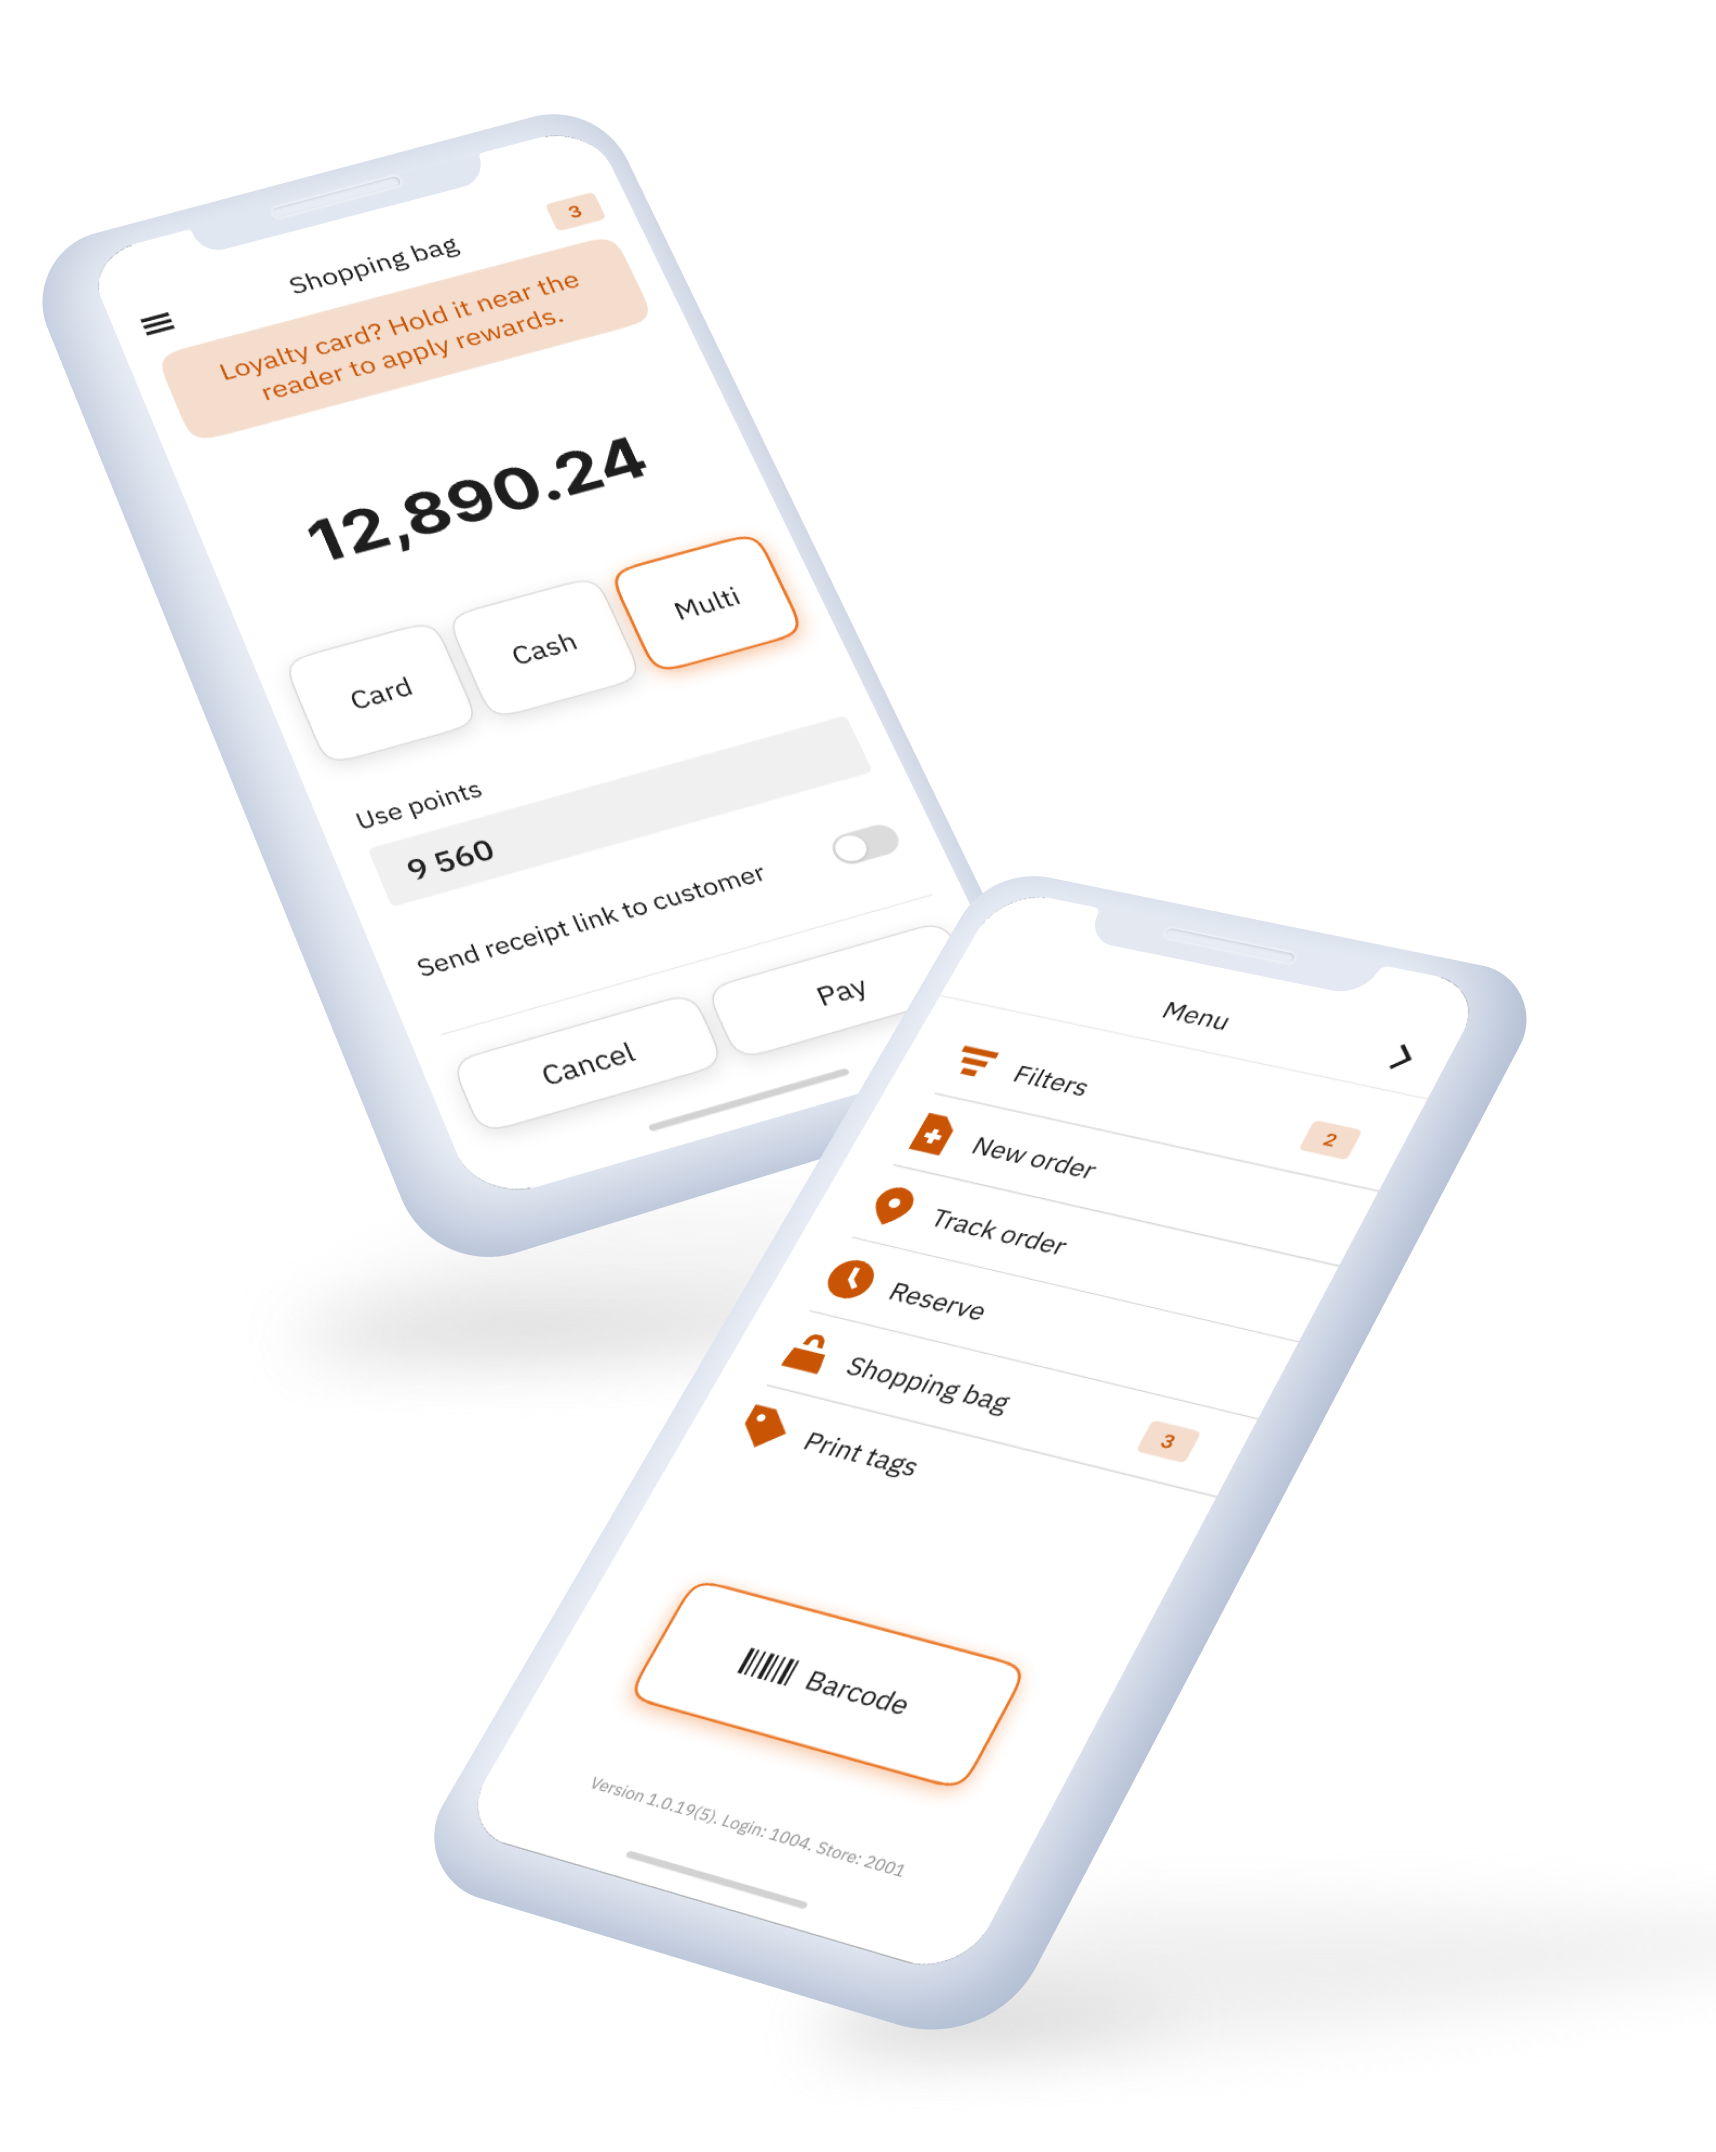
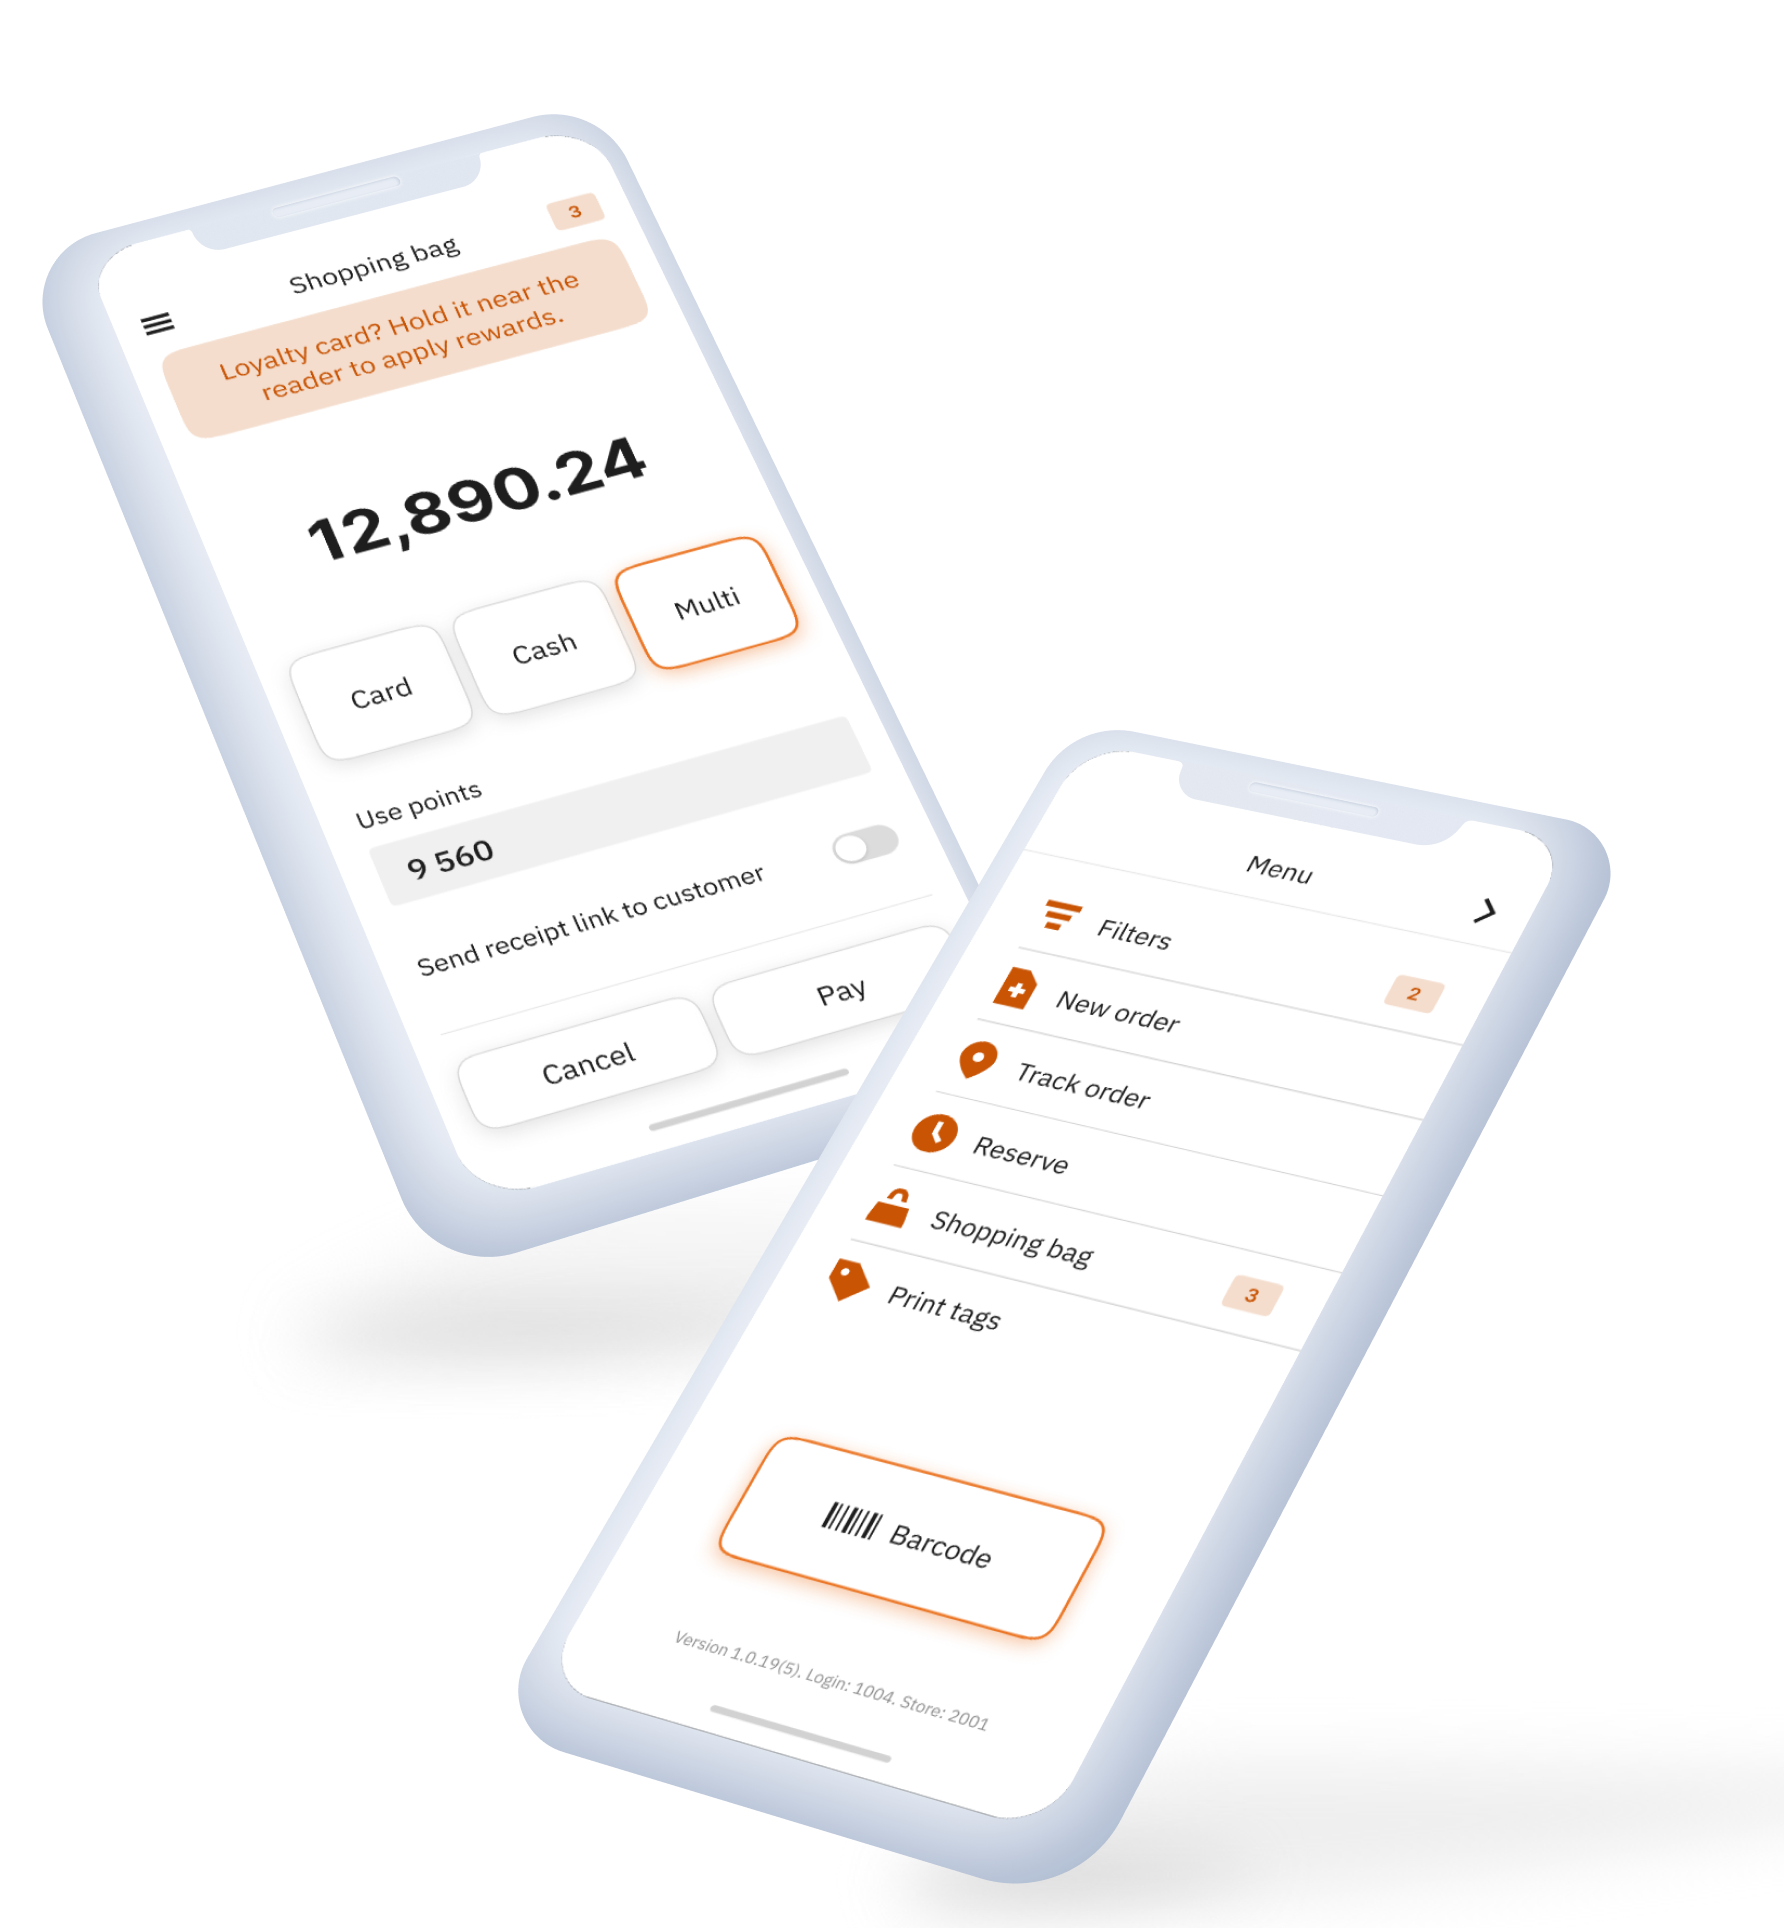
Project 2: leather backdrop card, phones moved to match Figma, 3D surface removed

diff --git a/enterprise/index.html b/enterprise/index.html
@@ -387,11 +387,21 @@
     height: auto;
     z-index: 2;            /* over the wireframe surface */
   }
-  /* Two phone mockups: rise 158px above the block and stop at its right edge (Figma 193:390) */
+  /* Two phone mockups over a leather photo card, both stopping at the block's right edge
+     (Figma 195:458) */
   .project-shot--phones {
-    left: 55.31%;          /* 1062 / 1920 */
-    top: -16.46%;          /* -158 / 960 */
-    width: 44.69%;         /* 858 / 1920 */
+    left: 53.54%;          /* 1028 / 1920 */
+    top: -1.67%;           /* -16 / 960: just above the block */
+    width: 46.46%;         /* 892 / 1920 */
+  }
+  .project-backdrop {
+    position: absolute;
+    left: 50%;
+    top: 12.08%;           /* 116 / 960 */
+    width: 50%;            /* 960 / 1920 */
+    height: auto;
+    border-radius: 20px 0 0 20px;
+    z-index: 1;
   }
 
   /* ---------- Micrographics ----------
@@ -468,6 +478,7 @@
       margin: 40px 0 0 var(--text-left);
     }
     .project-shot--phones { max-width: 420px; }
+    .project-backdrop { display: none; }
   }
   /* Centre capitals exactly in buttons: the line box normally reserves room for accents
      above and descenders below, which leaves caps ~1px high. Trimming the box to the cap
@@ -541,9 +552,9 @@
         <a class="button" href="#">learn more ↗</a>
       </div>
 
-      <img class="project-shot project-shot--phones" src="../enterprise/assets/project-2-retail-apps.png" width="1716" height="2152"
+      <img class="project-backdrop" src="../enterprise/assets/project-2-leather.jpg" width="1920" height="1400" alt="">
+      <img class="project-shot project-shot--phones" src="../enterprise/assets/project-2-retail-apps.png" width="1784" height="1928"
            alt="Two iPhone screens: checkout with card, cash and loyalty points, and the store assistant menu">
-      <div class="micro micro--surface is-flipped" aria-hidden="true"></div>
       <div class="micro micro--diamond" aria-hidden="true"></div>
     </section>
   </main>

diff --git a/index.html b/index.html
@@ -386,11 +386,21 @@
     height: auto;
     z-index: 2;            /* over the wireframe surface */
   }
-  /* Two phone mockups: rise 158px above the block and stop at its right edge (Figma 193:390) */
+  /* Two phone mockups over a leather photo card, both stopping at the block's right edge
+     (Figma 195:458) */
   .project-shot--phones {
-    left: 55.31%;          /* 1062 / 1920 */
-    top: -16.46%;          /* -158 / 960 */
-    width: 44.69%;         /* 858 / 1920 */
+    left: 53.54%;          /* 1028 / 1920 */
+    top: -1.67%;           /* -16 / 960: just above the block */
+    width: 46.46%;         /* 892 / 1920 */
+  }
+  .project-backdrop {
+    position: absolute;
+    left: 50%;
+    top: 12.08%;           /* 116 / 960 */
+    width: 50%;            /* 960 / 1920 */
+    height: auto;
+    border-radius: 20px 0 0 20px;
+    z-index: 1;
   }
 
   /* ---------- Micrographics ----------
@@ -467,6 +477,7 @@
       margin: 40px 0 0 var(--text-left);
     }
     .project-shot--phones { max-width: 420px; }
+    .project-backdrop { display: none; }
   }
   /* Centre capitals exactly in buttons: the line box normally reserves room for accents
      above and descenders below, which leaves caps ~1px high. Trimming the box to the cap
@@ -540,9 +551,9 @@
         <a class="button" href="#">learn more ↗</a>
       </div>
 
-      <img class="project-shot project-shot--phones" src="enterprise/assets/project-2-retail-apps.png" width="1716" height="2152"
+      <img class="project-backdrop" src="enterprise/assets/project-2-leather.jpg" width="1920" height="1400" alt="">
+      <img class="project-shot project-shot--phones" src="enterprise/assets/project-2-retail-apps.png" width="1784" height="1928"
            alt="Two iPhone screens: checkout with card, cash and loyalty points, and the store assistant menu">
-      <div class="micro micro--surface is-flipped" aria-hidden="true"></div>
       <div class="micro micro--diamond" aria-hidden="true"></div>
     </section>
   </main>
